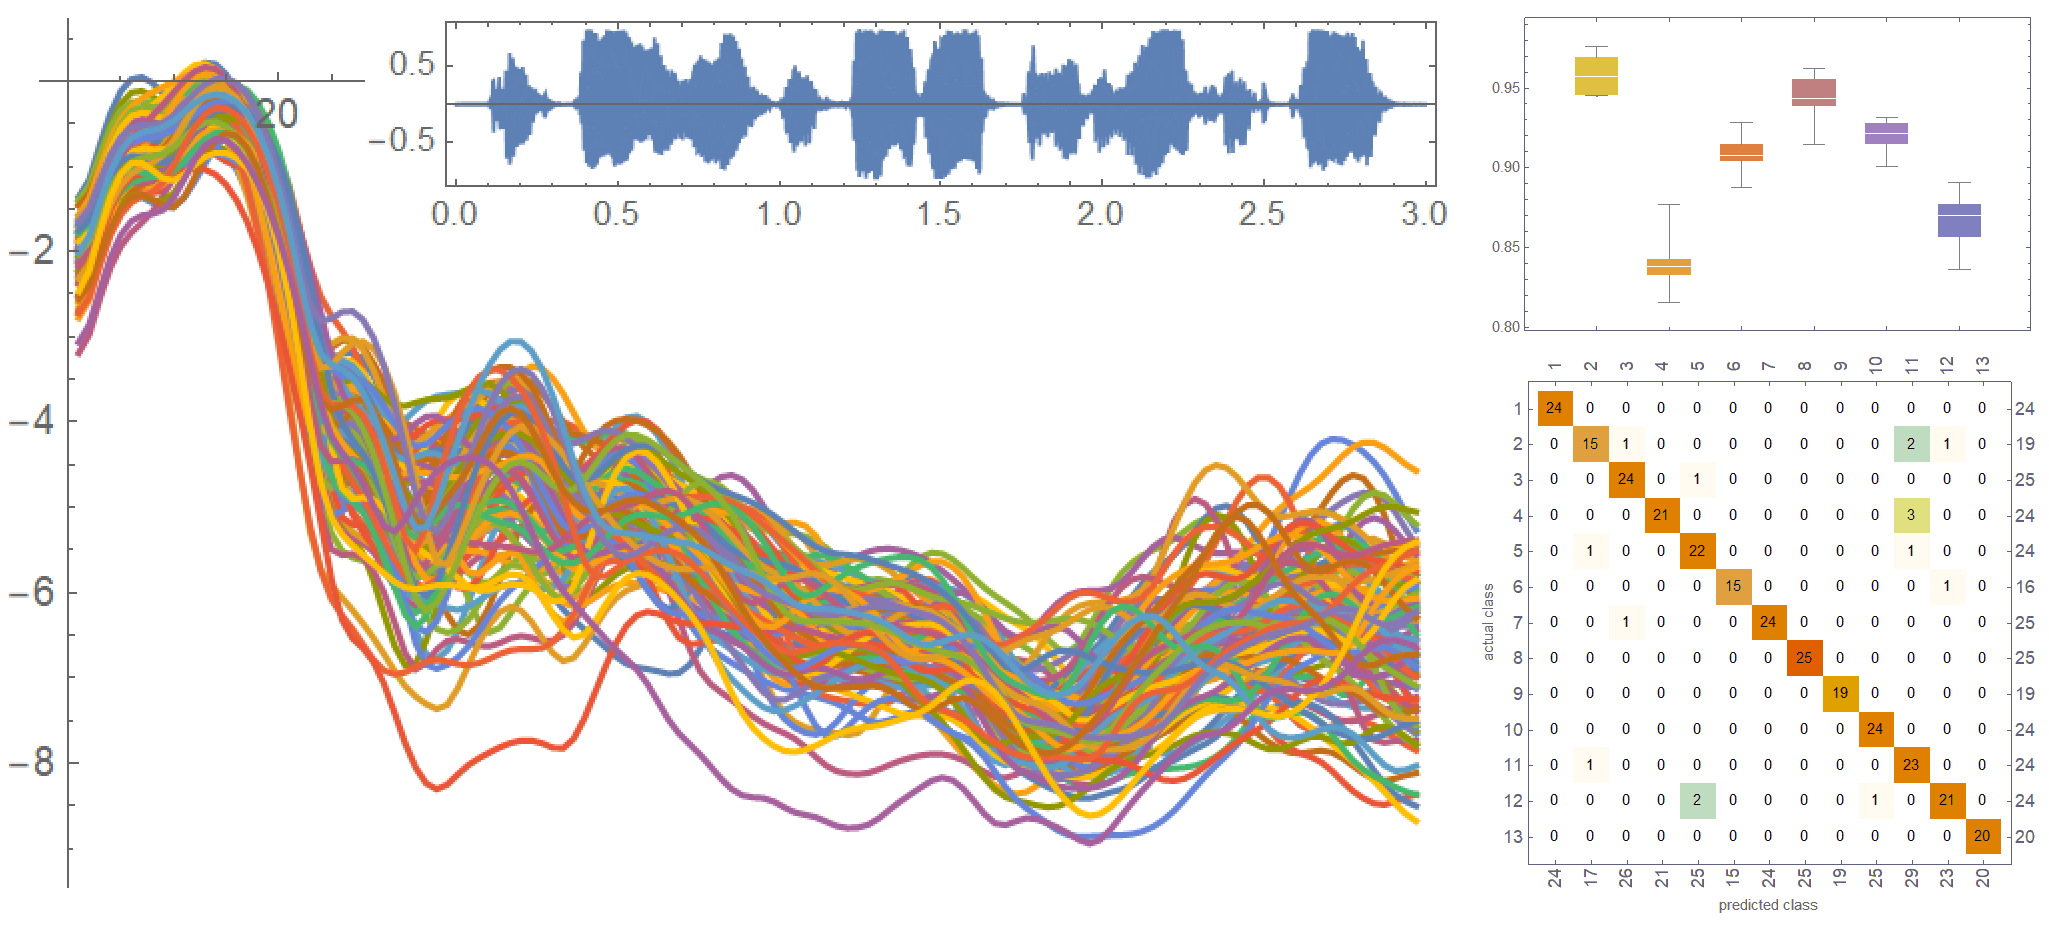
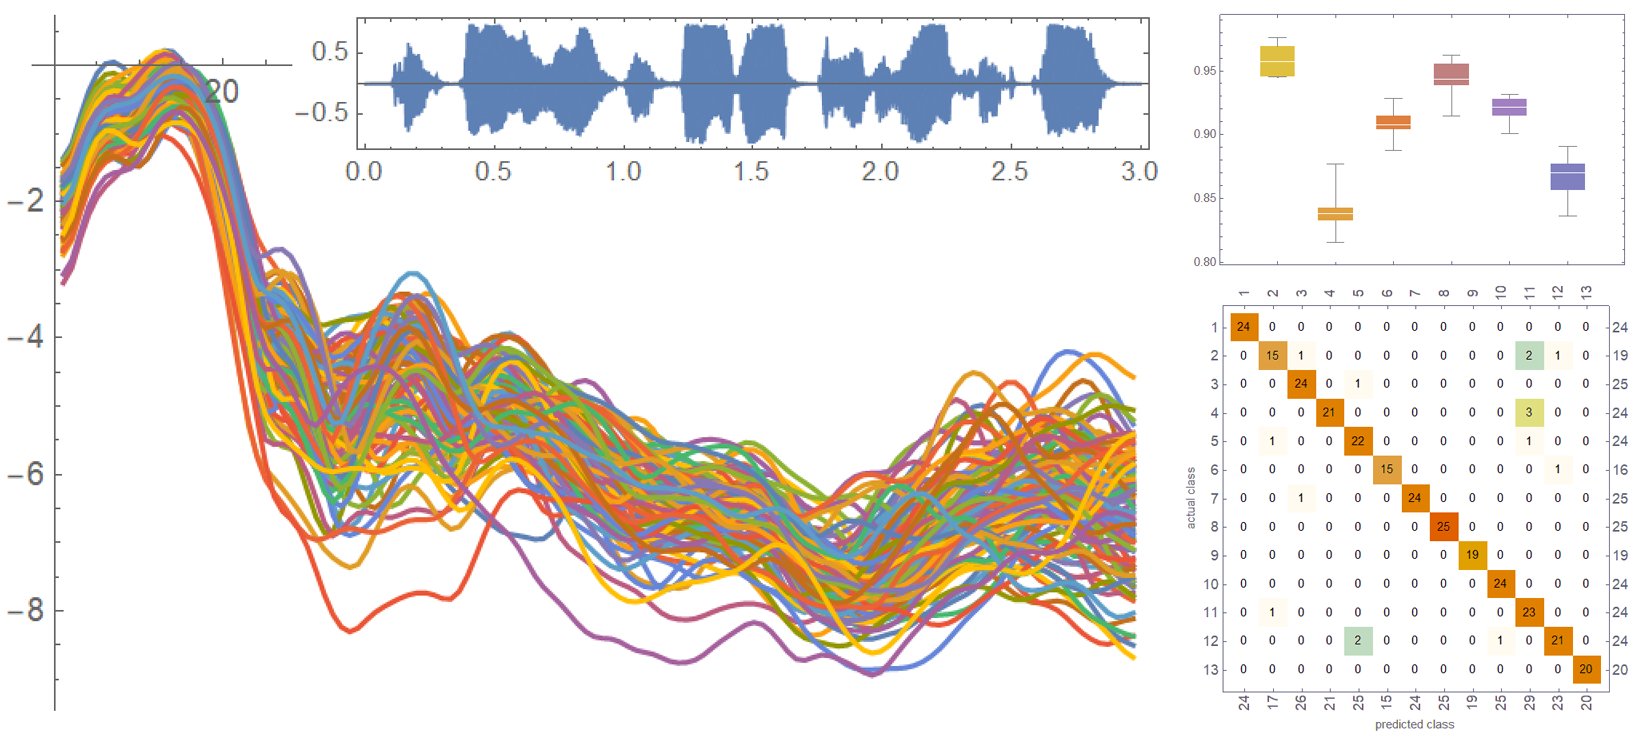
Minimising some pic sizes

diff --git a/code/index.html b/code/index.html
@@ -73,7 +73,7 @@
             <a href="/" class="author"><span class="name">pjl</span><img src="/images/avatar.jpg" alt="" /></a>
          </div>
        </header>
-        <a href="/2018/01/07/neural-style-transfer.html"><img src="/images/qwave.jpg" title="Myself in the style of Caspar David Friedrich" class="image featured"/></a>
+        <a href="/2018/01/07/neural-style-transfer.html"><img src="/images/qwave.jpg" title="The seascape in Qingdao in the style of Hokusai's Great Wave off Kanagawa" class="image featured"/></a>
         Neural Style Transfer is a technique for transforming an image (like this photo of the seascape in Qingdao) into the style of another image, typically a painting (here the style is of Hokusai's 'Great Wave off Kanagawa').
         <br><br>
        <footer>
@@ -100,7 +100,7 @@
             <a href="/" class="author"><span class="name">pjl</span><img src="/images/avatar.jpg" alt="" /></a>
          </div>
        </header>
-        <a href="/2017/12/14/voice-classification.html"><img src="/images/spectra.png" title="Spectra for a voice actor" class="image featured"/></a>
+        <a href="/2017/12/14/voice-classification.html"><img src="/images/spectra.jpg" title="Spectra for a voice actor" class="image featured"/></a>
         Someone calls you on the phone, and within a few words you can work out who it is. Can a computer do this just as accurately? For a bit of fun, and to practice some machine learning, I made to program which does this. I give the program a few minutes of recorded speech from 13 people to learn from originally, and it can tell from a few seconds of speech who is speaking with an accuracy of 95% (using Mathematica) to 97% (using Python).
         <br><br>
        <footer>

diff --git a/index.html b/index.html
@@ -73,7 +73,7 @@
             <a href="/" class="author"><span class="name">pjl</span><img src="/images/avatar.jpg" alt="" /></a>
          </div>
        </header>
-        <a href="/2018/01/07/neural-style-transfer.html"><img src="/images/qwave.jpg" title="Myself in the style of Caspar David Friedrich" class="image featured"/></a>
+        <a href="/2018/01/07/neural-style-transfer.html"><img src="/images/qwave.jpg" title="The seascape in Qingdao in the style of Hokusai's Great Wave off Kanagawa" class="image featured"/></a>
         Neural Style Transfer is a technique for transforming an image (like this photo of the seascape in Qingdao) into the style of another image, typically a painting (here the style is of Hokusai's 'Great Wave off Kanagawa').
         <br><br>
        <footer>
@@ -100,7 +100,7 @@
             <a href="/" class="author"><span class="name">pjl</span><img src="/images/avatar.jpg" alt="" /></a>
          </div>
        </header>
-        <a href="/2017/12/14/voice-classification.html"><img src="/images/spectra.png" title="Spectra for a voice actor" class="image featured"/></a>
+        <a href="/2017/12/14/voice-classification.html"><img src="/images/spectra.jpg" title="Spectra for a voice actor" class="image featured"/></a>
         Someone calls you on the phone, and within a few words you can work out who it is. Can a computer do this just as accurately? For a bit of fun, and to practice some machine learning, I made to program which does this. I give the program a few minutes of recorded speech from 13 people to learn from originally, and it can tell from a few seconds of speech who is speaking with an accuracy of 95% (using Mathematica) to 97% (using Python).
         <br><br>
        <footer>

diff --git a/2018/01/07/neural-style-transfer.html b/2018/01/07/neural-style-transfer.html
@@ -71,7 +71,7 @@
         <a href="#" class="author"><span class="name">pjl</span><img src="/images/avatar.jpg" alt="" /></a>
      </div>
    </header>
-        <img src="/images/qwave.jpg" title="Myself in the style of Caspar David Friedrich" class="image featured" />
+        <img src="/images/qwave.jpg" title="The seascape in Qingdao in the style of Hokusai's Great Wave off Kanagawa" class="image featured" />
    <div class="post-content" itemprop="articleBody">
      <p>I’ve been playing around with <em>Neural Style Transfer</em> (NST) for a while, and after sharing some creations with friends I got two questions: “how did you make this?” and “can you explain a bit about what is happening here?”. So, this post will do both.
 <p>After explaining the <a href="#what-is-neural-style-transfer">basic premise of NST</a>, I’ll give <a href="#some-background">some relevant background</a> on neural networks, describe <a href="#the-nst-algorithm">the NST algorithm</a>, and outline <a href="#what-specific-steps-did-i-take-to-make-the-images">the specific steps for generating these</a>.

diff --git a/2017/12/14/voice-classification.html b/2017/12/14/voice-classification.html
@@ -71,7 +71,7 @@
         <a href="#" class="author"><span class="name">pjl</span><img src="/images/avatar.jpg" alt="" /></a>
      </div>
    </header>
-        <img src="/images/spectra.png" title="Spectra for a voice actor" class="image featured" />
+        <img src="/images/spectra.jpg" title="Spectra for a voice actor" class="image featured" />
    <div class="post-content" itemprop="articleBody">
      <h1 id="problem">Problem</h1>
 <p>Someone calls you on the phone, and within a few words you can work out who it is. Can a computer do this just as accurately? For a bit of fun, and to practice some machine learning, I made to program which does this. I give the program a few minutes of recorded speech from 13 people to learn from originally, and it can tell after a few seconds who is speaking with an accuracy of 95% (using Mathematica) to 97% (using Python). I like this problem since it’s a task that humans (without the benefit of caller-id) often fail at… that is, unless their phone conversations all begin as distinctively as this:

diff --git a/math/index.html b/math/index.html
@@ -73,7 +73,7 @@
             <a href="/" class="author"><span class="name">pjl</span><img src="/images/avatar.jpg" alt="" /></a>
          </div>
        </header>
-        <a href="/2017/12/14/voice-classification.html"><img src="/images/spectra.png" title="Spectra for a voice actor" class="image featured"/></a>
+        <a href="/2017/12/14/voice-classification.html"><img src="/images/spectra.jpg" title="Spectra for a voice actor" class="image featured"/></a>
         Someone calls you on the phone, and within a few words you can work out who it is. Can a computer do this just as accurately? For a bit of fun, and to practice some machine learning, I made to program which does this. I give the program a few minutes of recorded speech from 13 people to learn from originally, and it can tell from a few seconds of speech who is speaking with an accuracy of 95% (using Mathematica) to 97% (using Python).
         <br><br>
        <footer>
